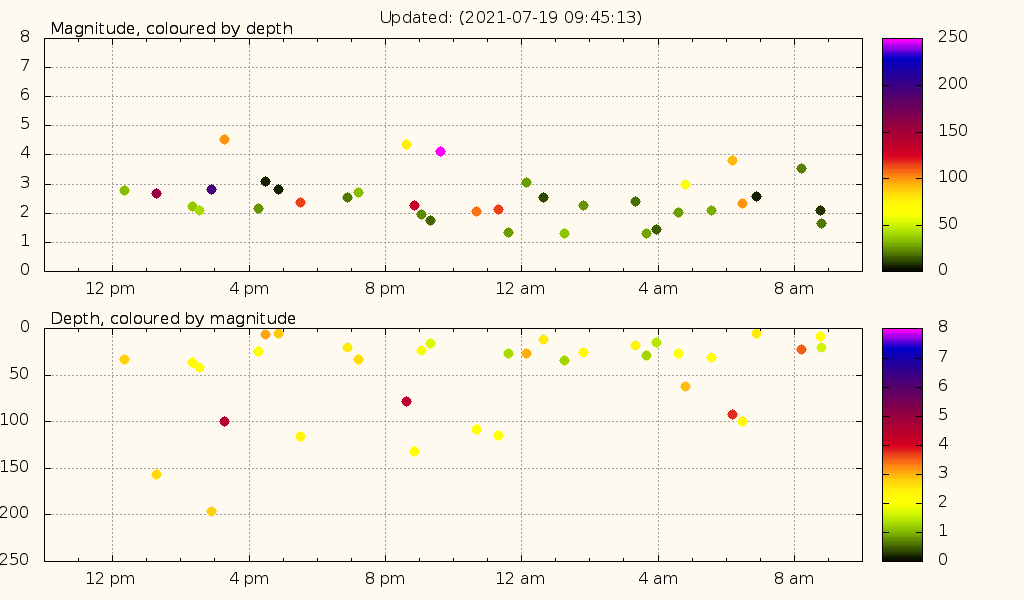
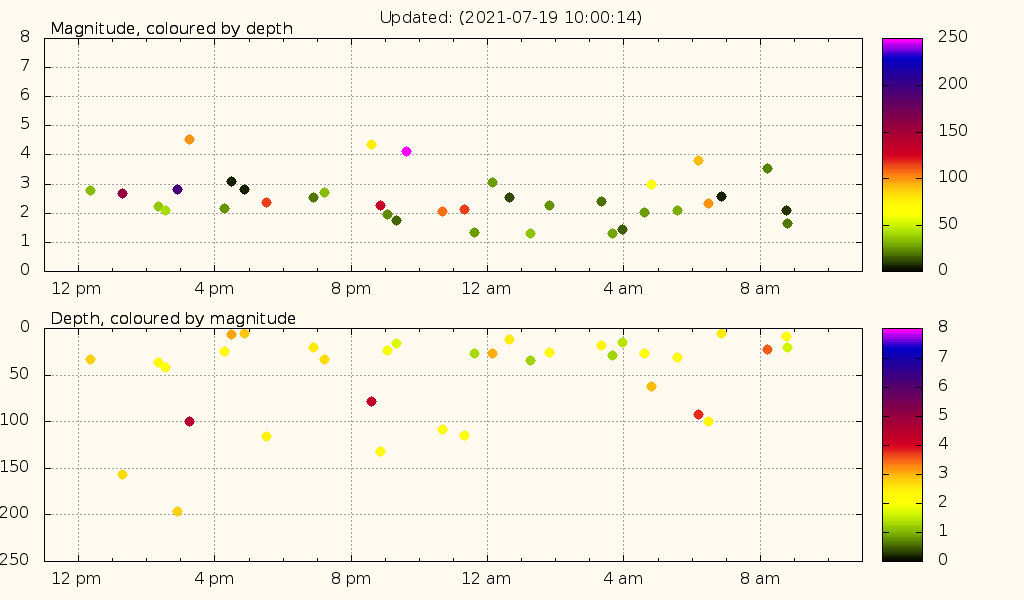
Update content

diff --git a/index.html b/index.html
@@ -65,8 +65,8 @@ td.depth { text-align: right; }
 </tr>
 <tr>
 	 <td align="left">&nbsp;</td> 
-	 <td align="left">09:45:08 am</td> 
-	 <td align="right">56:35</td> 
+	 <td align="left">10:00:09 am</td> 
+	 <td align="right">1:11:36</td> 
 	 <td colspan="3">&nbsp;</td> 
 </tr>
 <tr>
